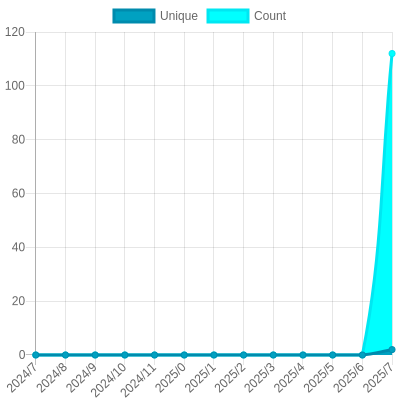
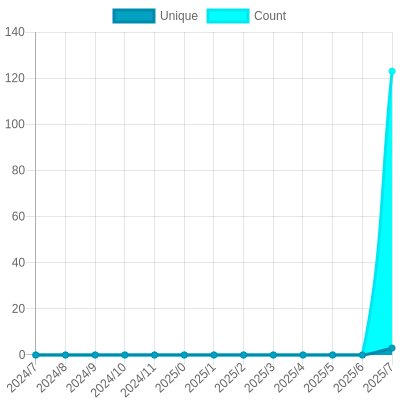
Update views

diff --git a/readme/844962475/year.md b/readme/844962475/year.md
@@ -23,10 +23,10 @@
 			<code>2024/8/1</code>
 		</td>
 		<td>
-			<code>2</code>
+			<code>3</code>
 		</td>
 		<td>
-			<code>112</code>
+			<code>123</code>
 		</td>
 	</tr>
 	<tr>
@@ -164,7 +164,7 @@
 </table>
 
 </details>
-<small><i>Last updated on 2024/8/21 6:23 AM UTC</i></small>
+<small><i>Last updated on 2024/8/21 12:32 PM UTC</i></small>
 
 ## ✂Copy and 📋 Paste
 ### SVG Badge

diff --git a/README.md b/README.md
@@ -37,7 +37,7 @@ The project created and maintained by [gayanvoice](https://github.com/gayanvoice
 	</tr>
 </table>
 
-<small><i>Last updated on 2024/8/21 6:23 AM UTC</i></small>
+<small><i>Last updated on 2024/8/21 12:32 PM UTC</i></small>
 
 ## ✂Copy and 📋 Paste
 ### Total Views Badge
